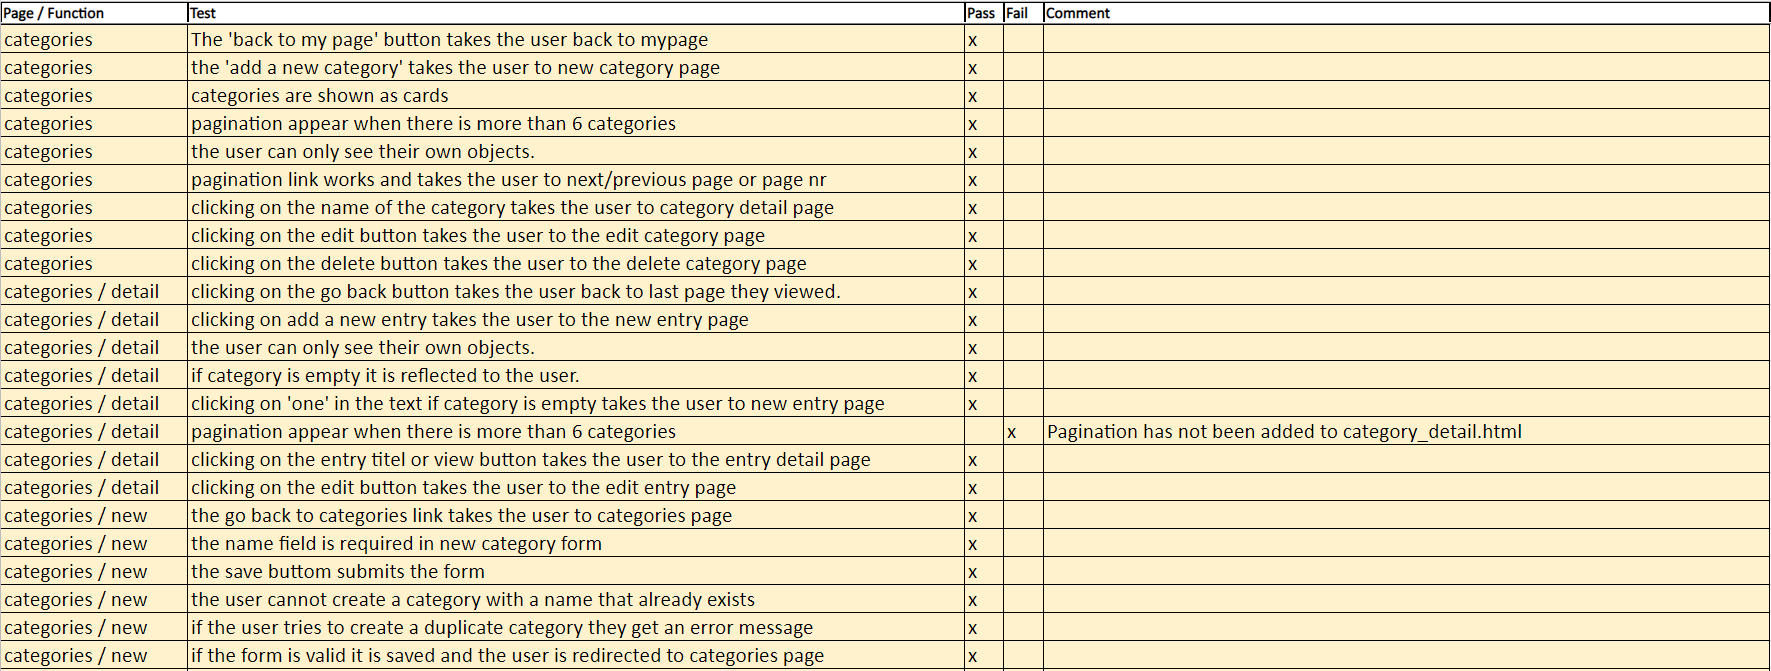
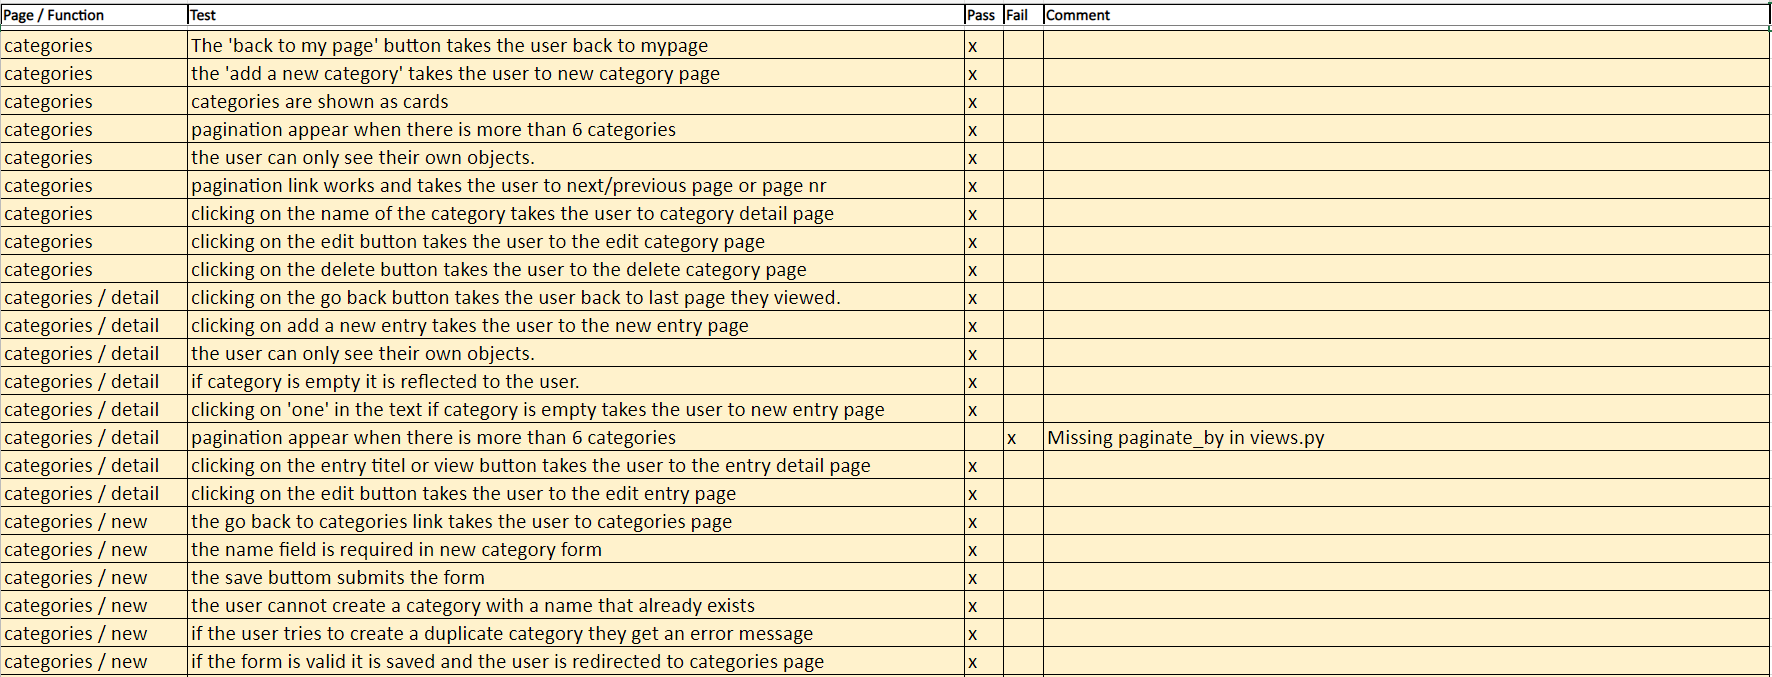
add active template syntax and style

Changed region(s): [[0.0, 0.0, 1.0, 1.0]]

diff --git a/templates/base.html b/templates/base.html
@@ -39,17 +39,17 @@
         </button>
         <div class="collapse navbar-collapse" id="navbarNavDropdown">
             <ul class="navbar-nav">
-                <li class="nav-item active">
+                <li class="nav-item {% if request.resolver_match.url_name == 'home' %}active{% endif %}">
                     <a class="nav-link" href="{% url 'home' %}"><span class="sr-only">(current)</span>Home</a>
                 </li>
-                <li class="nav-item">
+                <li class="nav-item {% if request.resolver_match.url_name == 'about' %}active{% endif %}">
                     <a class="nav-link" href="{% url 'about' %}">About</a>
                 </li>
                 <li class="nav-item">
-                    <a class="nav-link" href="{% url 'contact' %}">Contact</a>
+                    <a class="nav-link {% if request.resolver_match.url_name == 'contact' %}active{% endif %}" href="{% url 'contact' %}">Contact</a>
                 </li>
                 <li class="nav-item">
-                    <a class="nav-link" href="{% url 'blog' %}">Blog</a>
+                    <a class="nav-link {% if request.resolver_match.url_name == 'blog' %}active{% endif %}" href="{% url 'blog' %}">Blog</a>
                 </li>
             </ul>
             <ul class="navbar-nav nav-flex-icons">
@@ -61,9 +61,9 @@
                     </a>
 
                     <div class="dropdown-menu" aria-labelledby="navbarDropdownMenuLink">
-                        <a class="dropdown-item" href="{% url 'mypage' %}">My page</a>
-                        <a class="dropdown-item" href="{% url 'categories' %}">Categories</a>
-                        <a class="dropdown-item" href="{% url 'entries' %}">Entries</a>
+                        <a class="dropdown-item {% if request.resolver_match.url_name == 'mypage' %}active-dropdown{% endif %}" href="{% url 'mypage' %}">My page</a>
+                        <a class="dropdown-item {% if request.resolver_match.url_name == 'categories' %}active-dropdown{% endif %}" href="{% url 'categories' %}">Categories</a>
+                        <a class="dropdown-item {% if request.resolver_match.url_name == 'entries' %}active-dropdown{% endif %}" href="{% url 'entries' %}">Entries</a>
                         <a class="dropdown-item" href="{% url 'account_logout' %}">
                             Sign out <i class="fas fa-sign-out-alt"></i></a>
                     </div>

diff --git a/static/css/style.css b/static/css/style.css
@@ -44,6 +44,15 @@ span {
     text-align: center;
 }
 
+.active {
+    border-bottom: 1px solid var(--dark-teal);
+}
+
+.active-dropdown {
+    background-color: #025159;
+    color: var(--off-white);
+}
+
 @media only screen and (min-width: 992px) {
     .navbar {
         flex-direction: column;

diff --git a/TESTING.md b/TESTING.md
@@ -179,6 +179,12 @@ These are the manual tests that have been carried out.
 ![test-categories](/documentation/images/testing/test-categories-1.png)
 ![test-categories-cont](/documentation/images/testing/test-categories-2.png)
 
+### Issues found during testing
+
+1. The email field in the newsletter form in the footer was not required, so the user could simply click the subscribe button and it would appear as if they had successfully signed up for the newsletter. This was simply corrected by adding 'required' to the email input field.
+
+2. There was no pagination on the category_detail.html page, this was simply adjusted by adding 'paginate_by = 6' to the CategoryDetails class in the views.py file
+
 ## Bugs
 
 1. With unique=True in the name field on the Categories model restricted users from having the same name on a category as another user.
